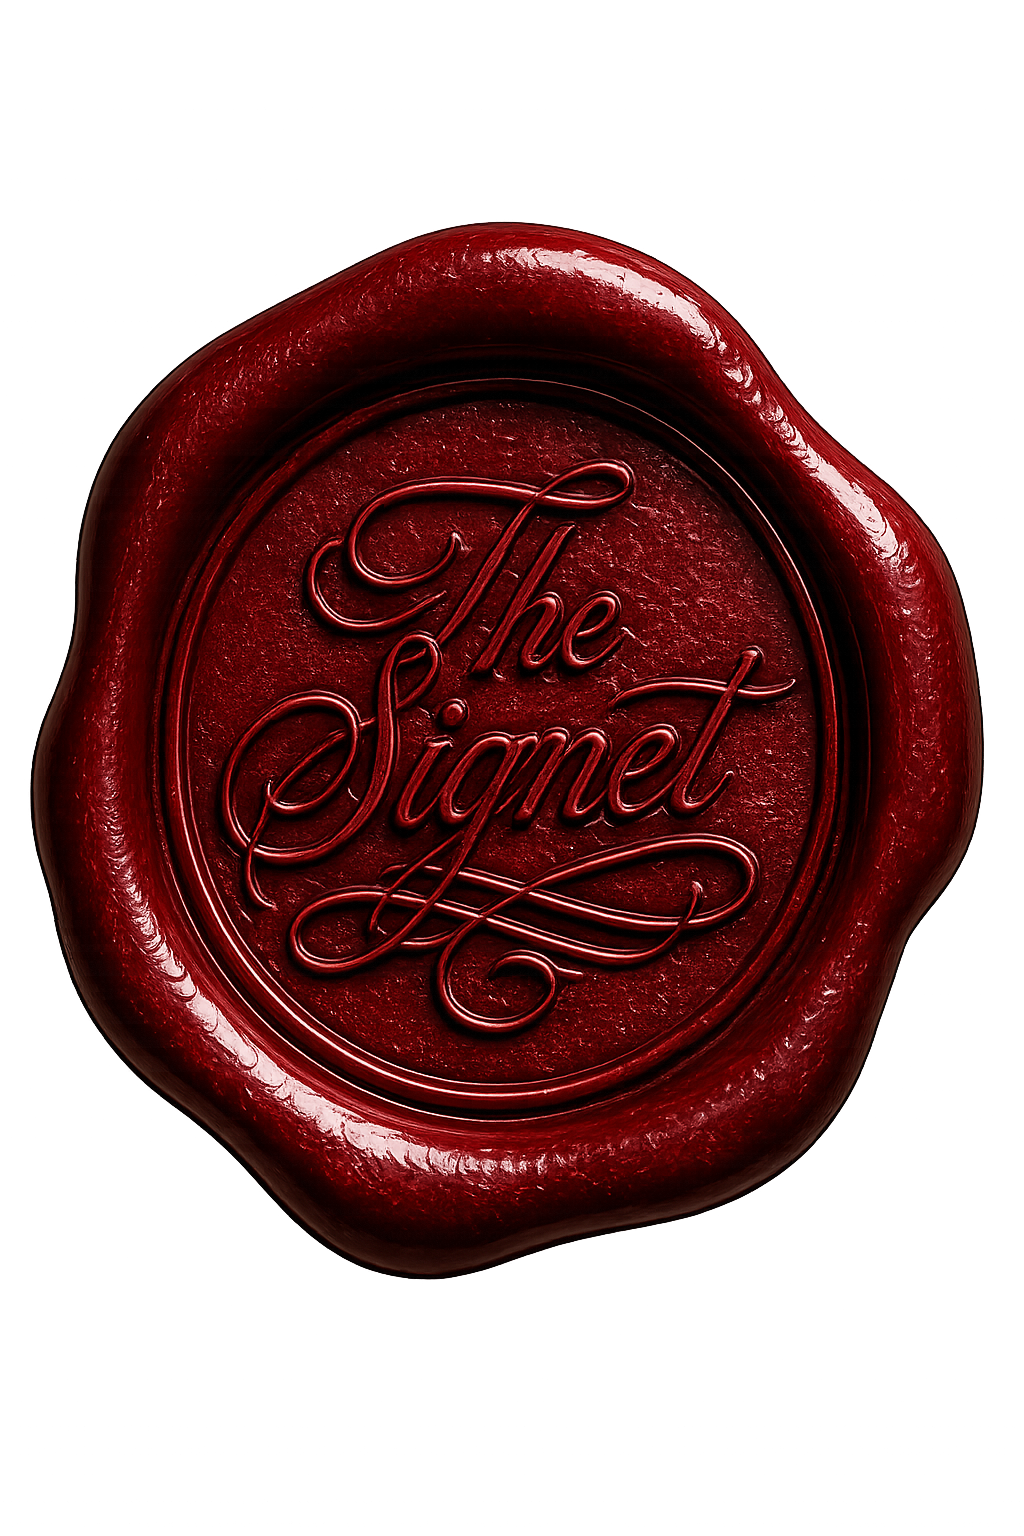
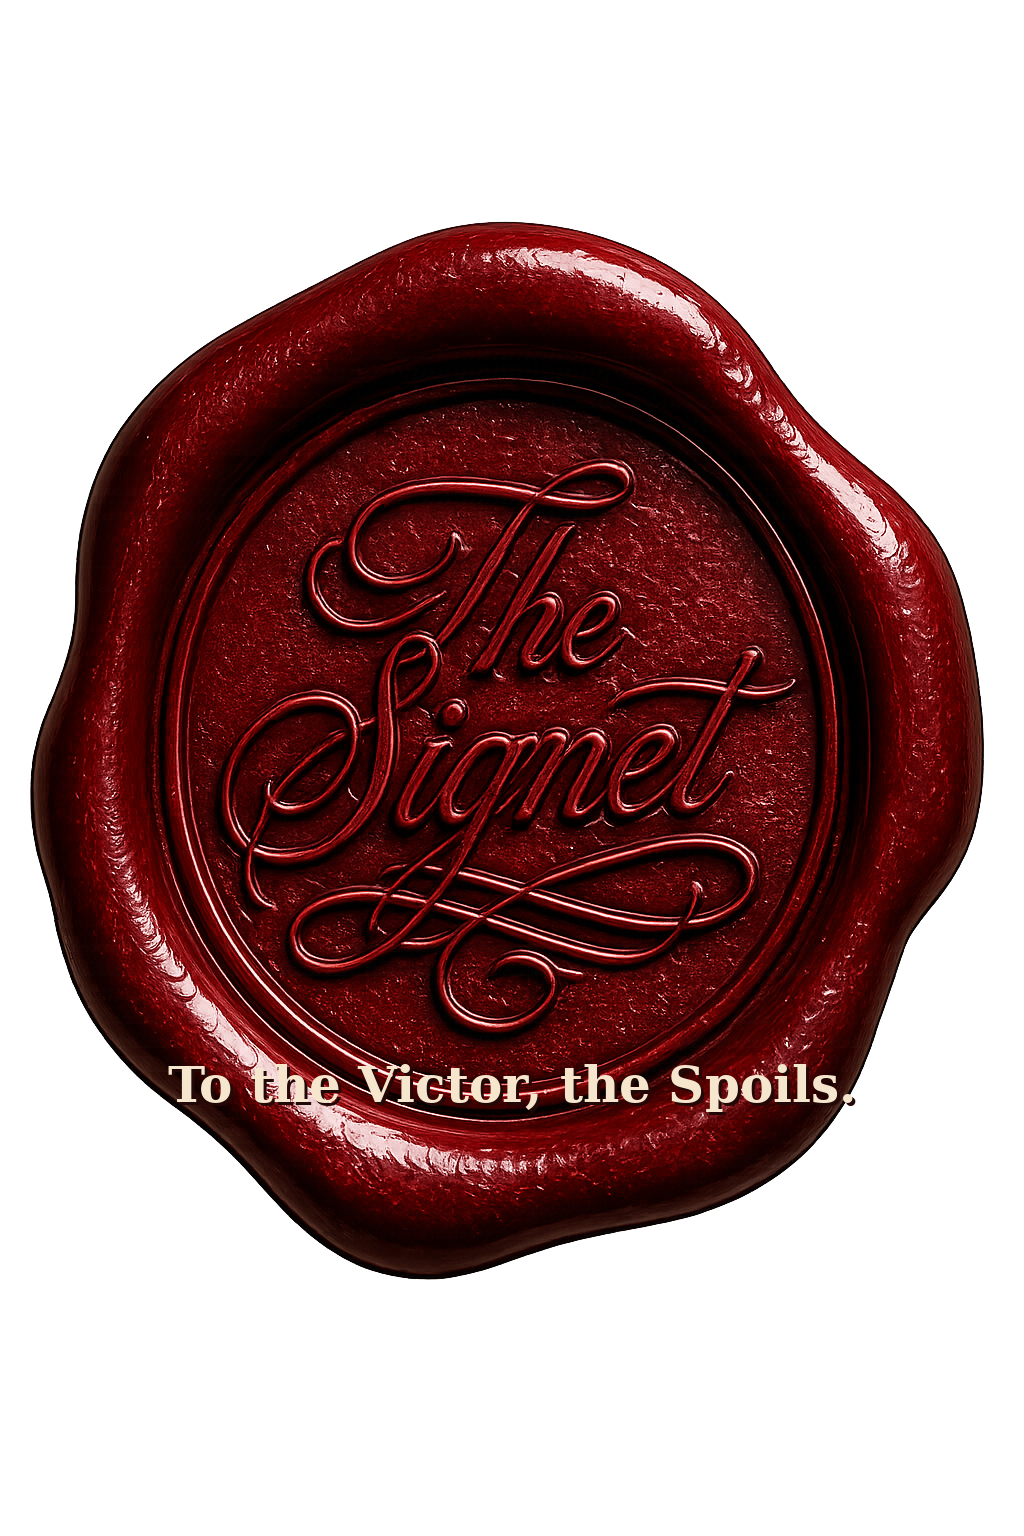
Add 'To the Victor, the Spoils.' to signet seal marks; update all seal blocks to full slogan

Changed region(s): [[0.1562, 0.6875, 0.8438, 0.75]]

diff --git a/articles/ai-agents-what-they-actually-are.html b/articles/ai-agents-what-they-actually-are.html
@@ -171,7 +171,7 @@
             <blockquote>Every system we deliver is forged with intent, tested with rigor, and sealed with our mark.</blockquote>
             <div class="seal-author">
                 <strong>Armory Forge Systems</strong>
-                <span>You imagine. We build.</span>
+                <span>You Imagine. We Build. To the Victor, the Spoils.</span>
             </div>
         </div>
     </div>

diff --git a/articles/ai-for-doctors.html b/articles/ai-for-doctors.html
@@ -172,7 +172,7 @@
             <blockquote>Every system we deliver is forged with intent, tested with rigor, and sealed with our mark.</blockquote>
             <div class="seal-author">
                 <strong>Armory Forge Systems</strong>
-                <span>You imagine. We build.</span>
+                <span>You Imagine. We Build. To the Victor, the Spoils.</span>
             </div>
         </div>
     </div>

diff --git a/articles/ai-for-hvac-companies.html b/articles/ai-for-hvac-companies.html
@@ -192,7 +192,7 @@
             <blockquote>Every system we deliver is forged with intent, tested with rigor, and sealed with our mark.</blockquote>
             <div class="seal-author">
                 <strong>Armory Forge Systems</strong>
-                <span>You imagine. We build.</span>
+                <span>You Imagine. We Build. To the Victor, the Spoils.</span>
             </div>
         </div>
     </div>

diff --git a/articles/ai-for-law-firms.html b/articles/ai-for-law-firms.html
@@ -184,7 +184,7 @@
             <blockquote>Every system we deliver is forged with intent, tested with rigor, and sealed with our mark.</blockquote>
             <div class="seal-author">
                 <strong>Armory Forge Systems</strong>
-                <span>You imagine. We build.</span>
+                <span>You Imagine. We Build. To the Victor, the Spoils.</span>
             </div>
         </div>
     </div>

diff --git a/articles/ai-for-real-estate-agents.html b/articles/ai-for-real-estate-agents.html
@@ -168,7 +168,7 @@
             <blockquote>Every system we deliver is forged with intent, tested with rigor, and sealed with our mark.</blockquote>
             <div class="seal-author">
                 <strong>Armory Forge Systems</strong>
-                <span>You imagine. We build.</span>
+                <span>You Imagine. We Build. To the Victor, the Spoils.</span>
             </div>
         </div>
     </div>

diff --git a/articles/ai-receptionist-vs-hiring.html b/articles/ai-receptionist-vs-hiring.html
@@ -185,7 +185,7 @@
             <blockquote>Every system we deliver is forged with intent, tested with rigor, and sealed with our mark.</blockquote>
             <div class="seal-author">
                 <strong>Armory Forge Systems</strong>
-                <span>You imagine. We build.</span>
+                <span>You Imagine. We Build. To the Victor, the Spoils.</span>
             </div>
         </div>
     </div>

diff --git a/articles/automation-arms-your-team.html b/articles/automation-arms-your-team.html
@@ -181,7 +181,7 @@
             <blockquote>Every system we deliver is forged with intent, tested with rigor, and sealed with our mark.</blockquote>
             <div class="seal-author">
                 <strong>Armory Forge Systems</strong>
-                <span>You imagine. We build.</span>
+                <span>You Imagine. We Build. To the Victor, the Spoils.</span>
             </div>
         </div>
     </div>

diff --git a/articles/can-ai-answer-your-business-phone.html b/articles/can-ai-answer-your-business-phone.html
@@ -176,7 +176,7 @@
             <blockquote>Every system we deliver is forged with intent, tested with rigor, and sealed with our mark.</blockquote>
             <div class="seal-author">
                 <strong>Armory Forge Systems</strong>
-                <span>You imagine. We build.</span>
+                <span>You Imagine. We Build. To the Victor, the Spoils.</span>
             </div>
         </div>
     </div>

diff --git a/articles/cloud-infrastructure-uncomplicated.html b/articles/cloud-infrastructure-uncomplicated.html
@@ -151,7 +151,7 @@
             <blockquote>Every system we deliver is forged with intent, tested with rigor, and sealed with our mark.</blockquote>
             <div class="seal-author">
                 <strong>Armory Forge Systems</strong>
-                <span>You imagine. We build.</span>
+                <span>You Imagine. We Build. To the Victor, the Spoils.</span>
             </div>
         </div>
     </div>

diff --git a/articles/future-of-ai-receptionists.html b/articles/future-of-ai-receptionists.html
@@ -162,7 +162,7 @@
             <blockquote>Every system we deliver is forged with intent, tested with rigor, and sealed with our mark.</blockquote>
             <div class="seal-author">
                 <strong>Armory Forge Systems</strong>
-                <span>You imagine. We build.</span>
+                <span>You Imagine. We Build. To the Victor, the Spoils.</span>
             </div>
         </div>
     </div>

diff --git a/articles/how-ai-pays-for-itself.html b/articles/how-ai-pays-for-itself.html
@@ -152,7 +152,7 @@
             <blockquote>Every system we deliver is forged with intent, tested with rigor, and sealed with our mark.</blockquote>
             <div class="seal-author">
                 <strong>Armory Forge Systems</strong>
-                <span>You imagine. We build.</span>
+                <span>You Imagine. We Build. To the Victor, the Spoils.</span>
             </div>
         </div>
     </div>

diff --git a/articles/how-much-does-ai-receptionist-cost.html b/articles/how-much-does-ai-receptionist-cost.html
@@ -219,7 +219,7 @@
             <blockquote>Every system we deliver is forged with intent, tested with rigor, and sealed with our mark.</blockquote>
             <div class="seal-author">
                 <strong>Armory Forge Systems</strong>
-                <span>You imagine. We build.</span>
+                <span>You Imagine. We Build. To the Victor, the Spoils.</span>
             </div>
         </div>
     </div>
